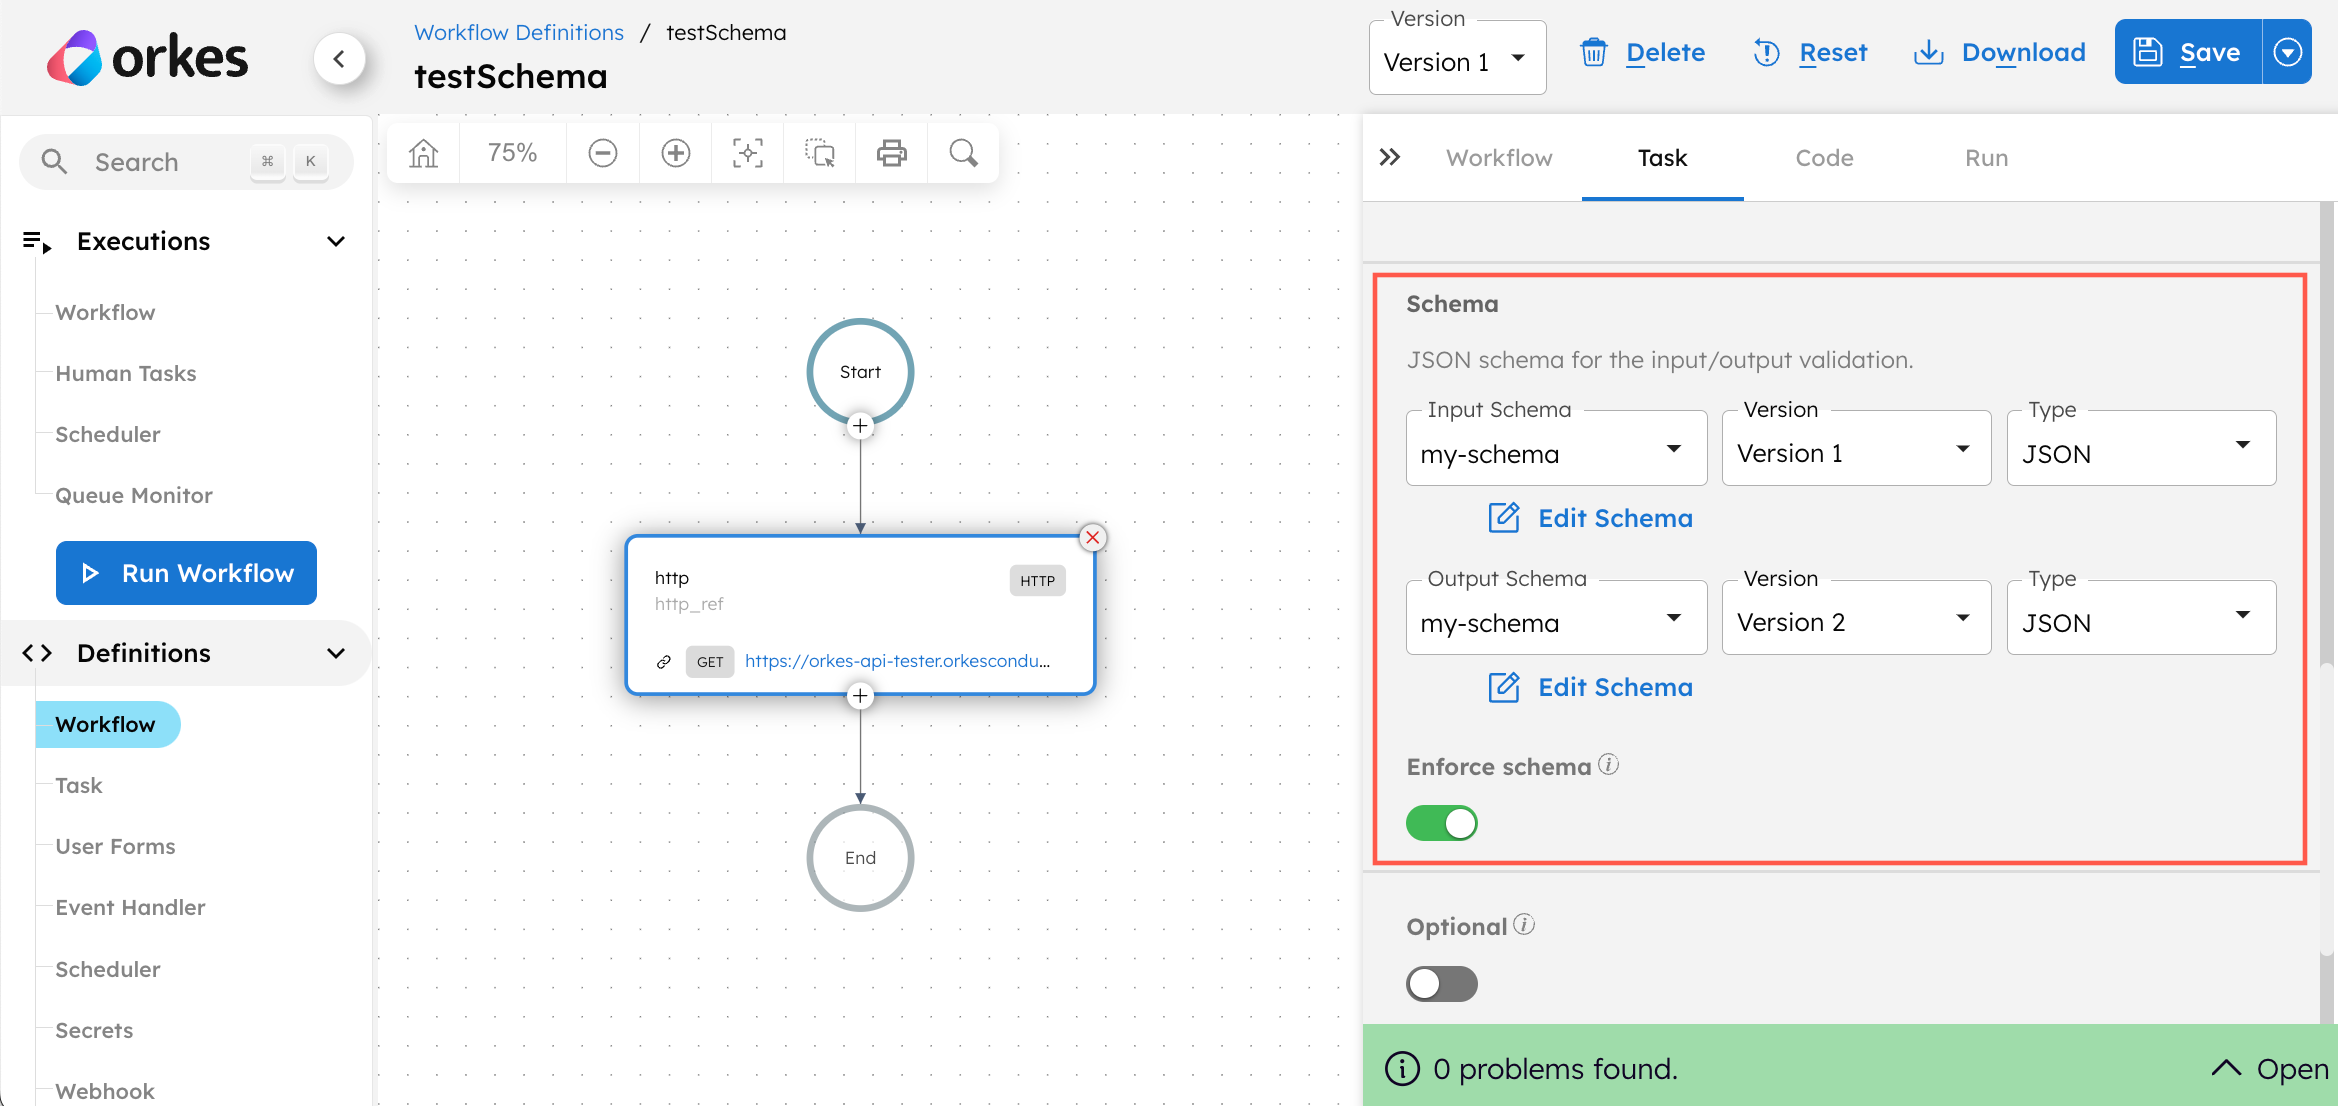
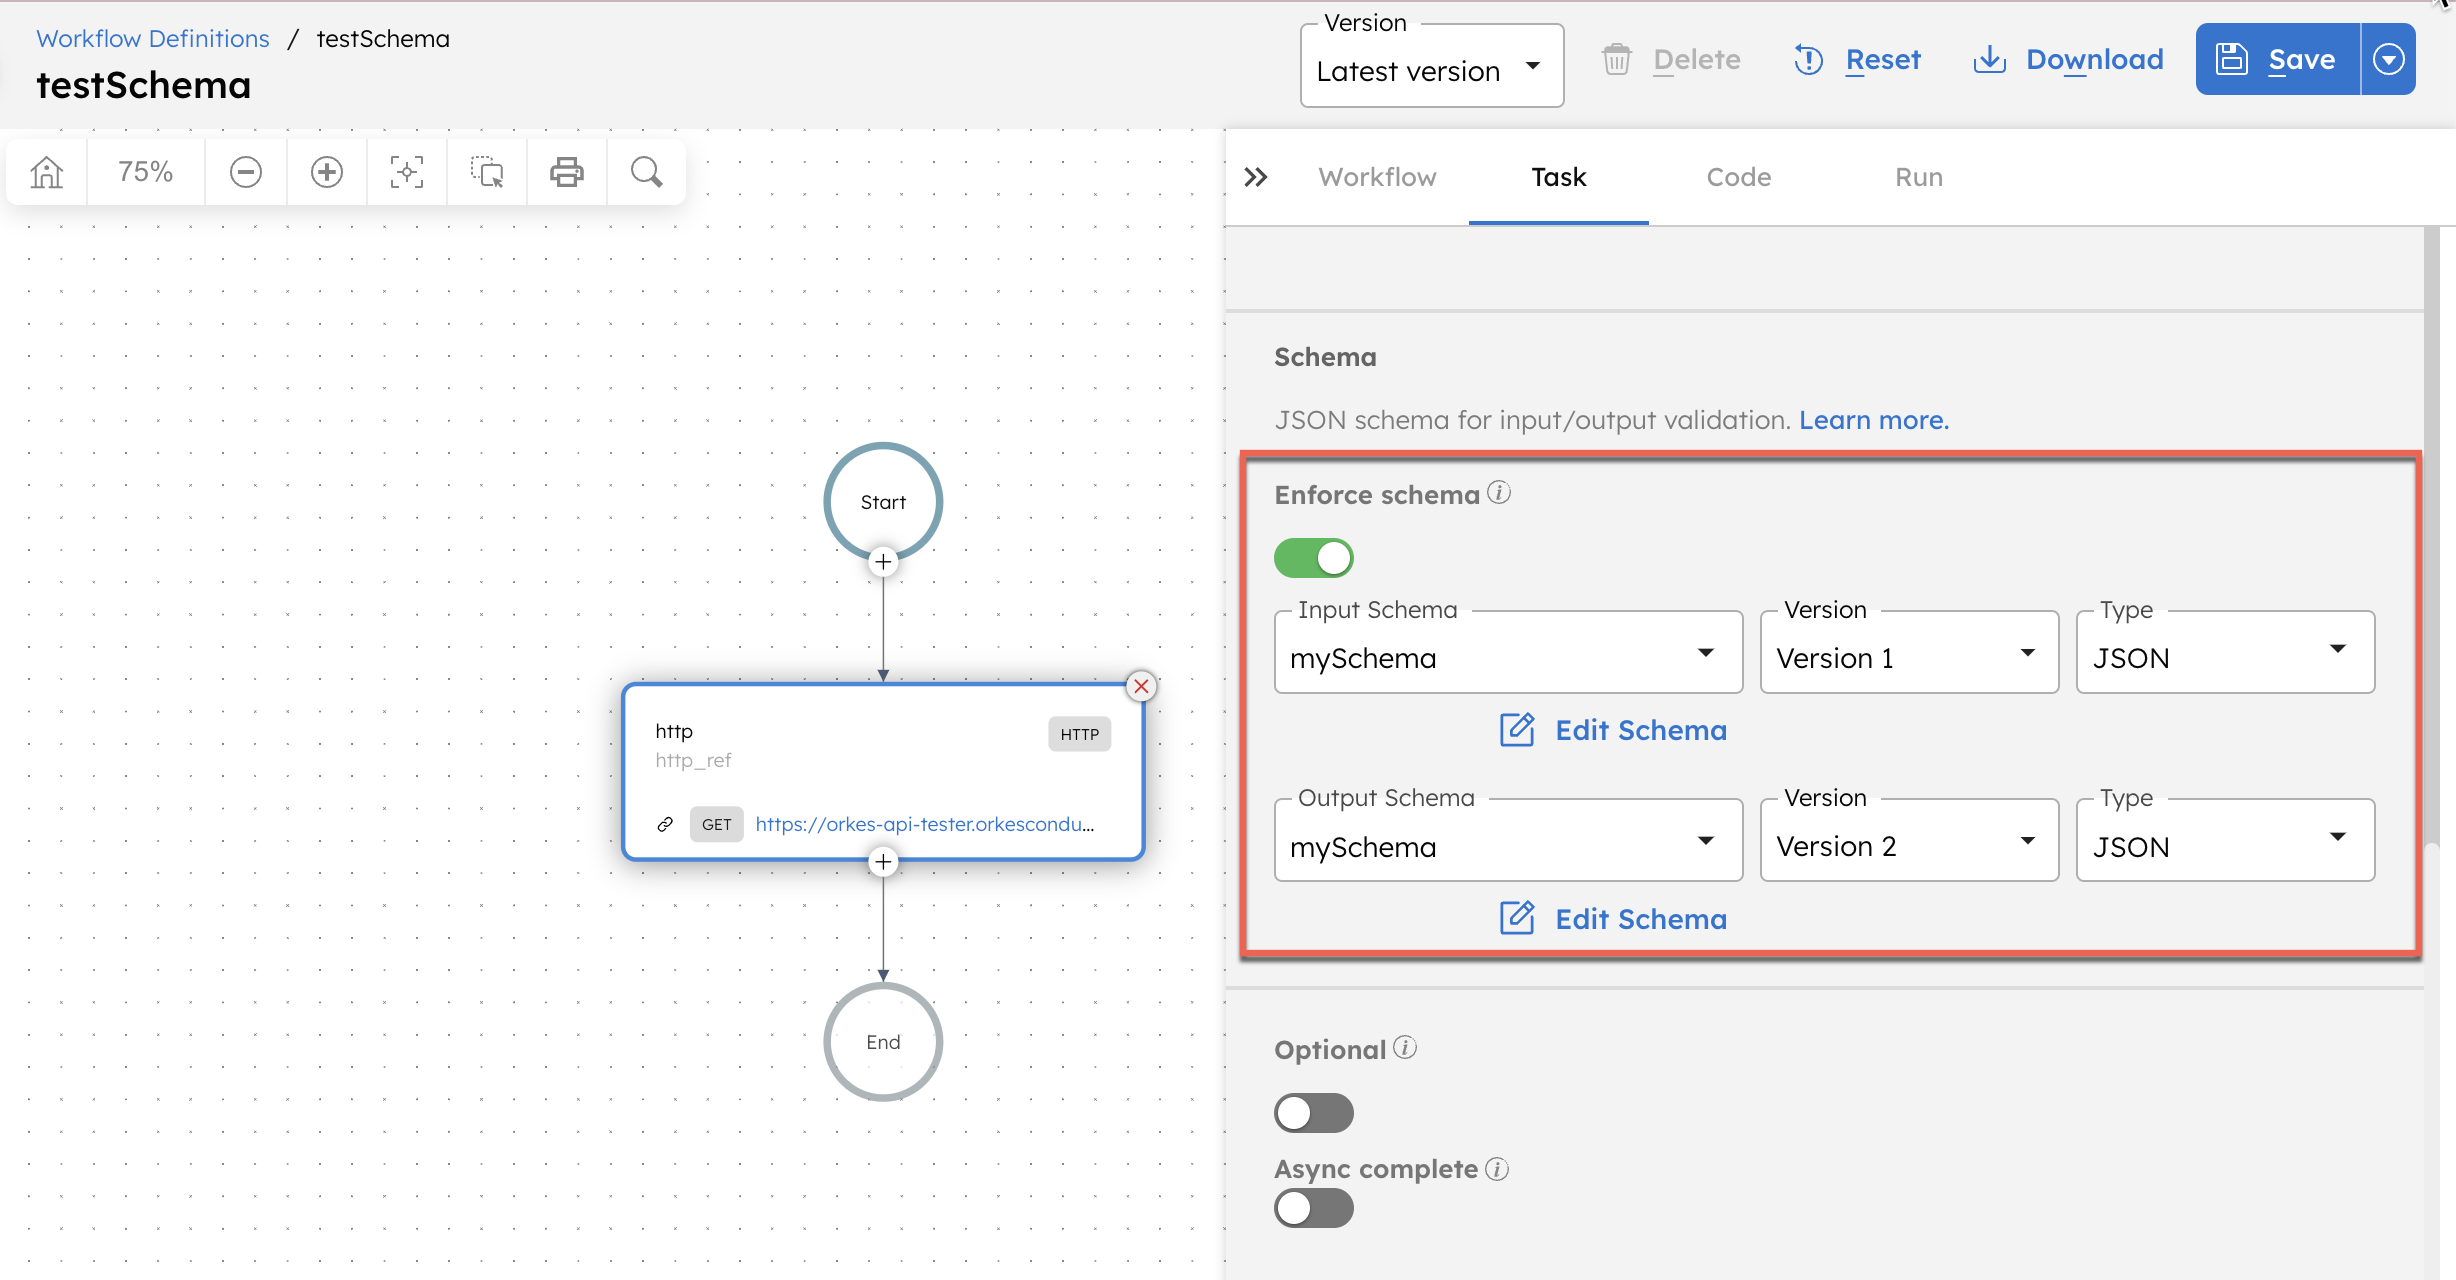
Update - Output Schema for workflow

diff --git a/docs/developer-guides/schema-validation.md b/docs/developer-guides/schema-validation.md
@@ -53,7 +53,7 @@ Currently, schemas can be defined in the [JSON Schema](https://json-schema.org/s
 ## Using schemas
 
 To enforce validation for input/output payloads, schemas can be added to:
-* **A workflow definition**—Enforce workflow inputs.
+* **A workflow definition**—Enforce workflow inputs/outputs.
 * **A task definition**—Enforce task inputs/outputs for all instances of the task.
 * **A task configuration**—Enforce task inputs/outputs for a specific workflow.
 
@@ -69,9 +69,9 @@ Here is an overview of using schemas in Conductor workflows:
 2. Go to **Definitions** > **Schemas**.
 3. Select **(+) New schema** on the top right.
     A schema editor opens.
-4. Add your schema definition in the `data` object. Make sure to fill out at least the `$schema`, `$id`,  `type`, and `properties` parameters as outlined in the JSON Schema.
+4. Add your schema definition in the _data_ object. Make sure to fill out at least the _$schema_, _$id_, _type_, and _properties_ parameters as outlined in the JSON Schema.
 
-Learn more about creating a JSON Schema in [their documentation](https://json-schema.org/learn/getting-started-step-by-step).
+Learn more about [creating a JSON Schema](https://json-schema.org/learn/getting-started-step-by-step).
 
 
 ### Step 2: Add schema to workflow or task
@@ -117,9 +117,9 @@ If the version is unspecified, the latest schema version will be used.
 1. Go to **Definitions** > **Workflow**.
 2. Select a workflow that you want to add a task-level schema to.
 3. In the visual workflow editor, select a task.
-4. In the Schema section, select a schema to use as an **Input Schema** or **Output Schema**.
-5. Select a **Version** for the schema.
-6. Switch on the **Enforce schema** toggle.
+4. In the Schema section, switch on the **Enforce schema** toggle.
+5. Select a schema to use as an **Input Schema** or **Output Schema**.
+6. Select a **Version** for the schema.
 7. Select **Save** > **Confirm** in the top right.
 
 <p align="center"><img src="/content/img/dev-guides/input_output_validation-task_config_schema.png" alt="Screenshot of adding a schema to a task configuration in the workflow definition." width="100%" height="auto"></img></p>
@@ -163,11 +163,10 @@ If the version is unspecified, the latest schema version will be used.
 
 1. Go to **Definitions** > **Workflow**.
 2. Select a workflow that you want to add a task-level schema to.
-3. In the Schema section of the Workflow tab, select a schema to use as an **Input Schema**.
-4. Select a **Version** for the schema.
-5. Switch on the **Enforce schema** toggle.
+3. In the Schema section of the Workflow tab, switch on the **Enforce schema** toggle.
+4. Select a schema to use as an **Input Schema** or **Output Schema**.
+5. Select a **Version** for the schema.
 6. Select **Save** > **Confirm** in the top right.
-
 
 <p align="center"><img src="/content/img/dev-guides/input_output_validation-workflow_def_schema.png" alt="Screenshot of adding a schema to the workflow definition." width="100%" height="auto"></img></p>
 
@@ -224,12 +223,12 @@ Schema validation is currently supported for the following task types:
 * [Update Task](/reference-docs/system-tasks/update-task)
 * [Opsgenie](https://orkes.io/content/reference-docs/system-tasks/opsgenie)
 * [Query Processor](/reference-docs/system-tasks/query-processor)
-* [Text Complete](/reference-docs/ai-tasks/llm-text-complete)
-* [Generate Embeddings](/reference-docs/ai-tasks/llm-generate-embeddings)
-* [Get Embeddings](/reference-docs/ai-tasks/llm-get-embeddings)
-* [Store Embeddings](/reference-docs/ai-tasks/llm-store-embeddings)
-* [Search Index](/reference-docs/ai-tasks/llm-search-index)
-* [Index Document](/reference-docs/ai-tasks/llm-index-document)
+* [LLM Text Complete](/reference-docs/ai-tasks/llm-text-complete)
+* [LLM Generate Embeddings](/reference-docs/ai-tasks/llm-generate-embeddings)
+* [LLM Get Embeddings](/reference-docs/ai-tasks/llm-get-embeddings)
+* [LLM Store Embeddings](/reference-docs/ai-tasks/llm-store-embeddings)
+* [LLM Search Index](/reference-docs/ai-tasks/llm-search-index)
+* [LLM Index Document](/reference-docs/ai-tasks/llm-index-document)
 * [Get Document](/reference-docs/ai-tasks/llm-get-document)
-* [Index Text](/reference-docs/ai-tasks/llm-index-text)
-* [Chat Complete](/reference-docs/ai-tasks/llm-chat-complete)
+* [LLM Index Text](/reference-docs/ai-tasks/llm-index-text)
+* [LLM Chat Complete](/reference-docs/ai-tasks/llm-chat-complete)
